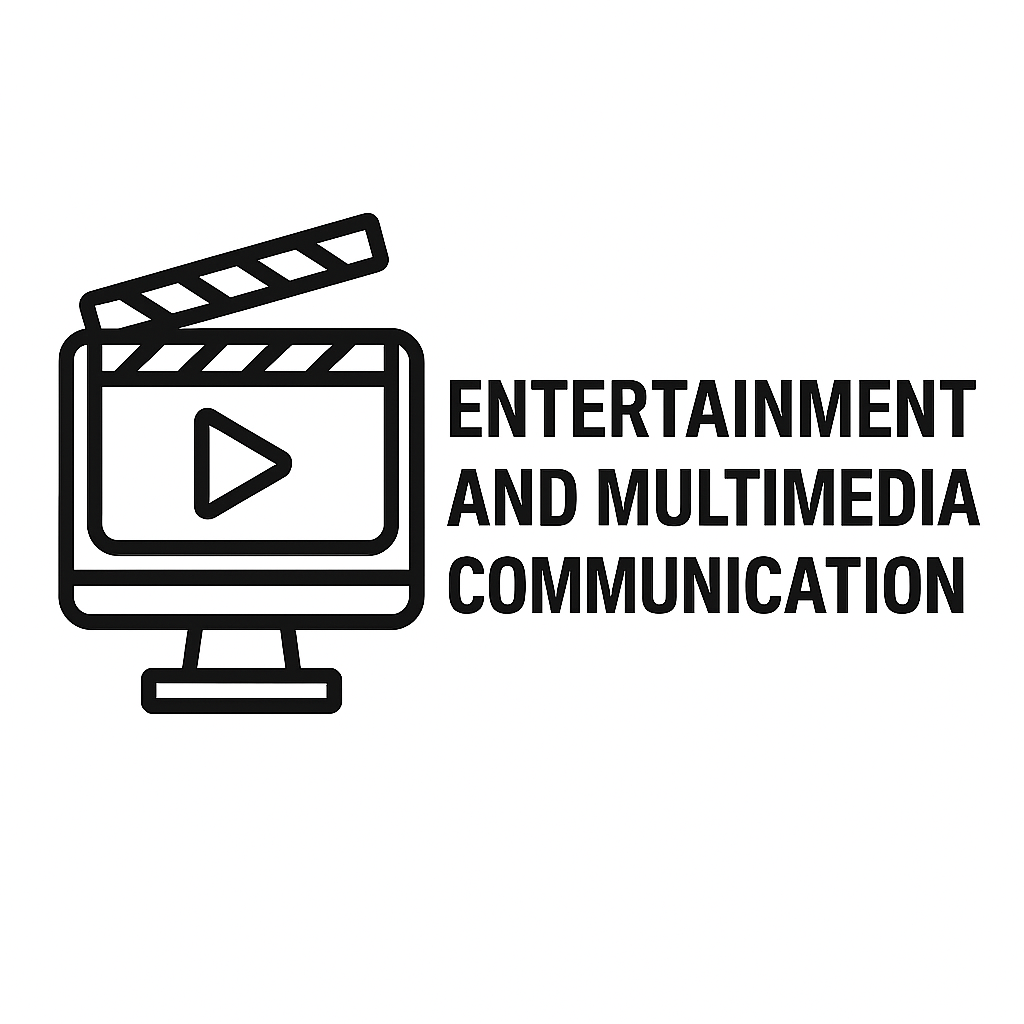
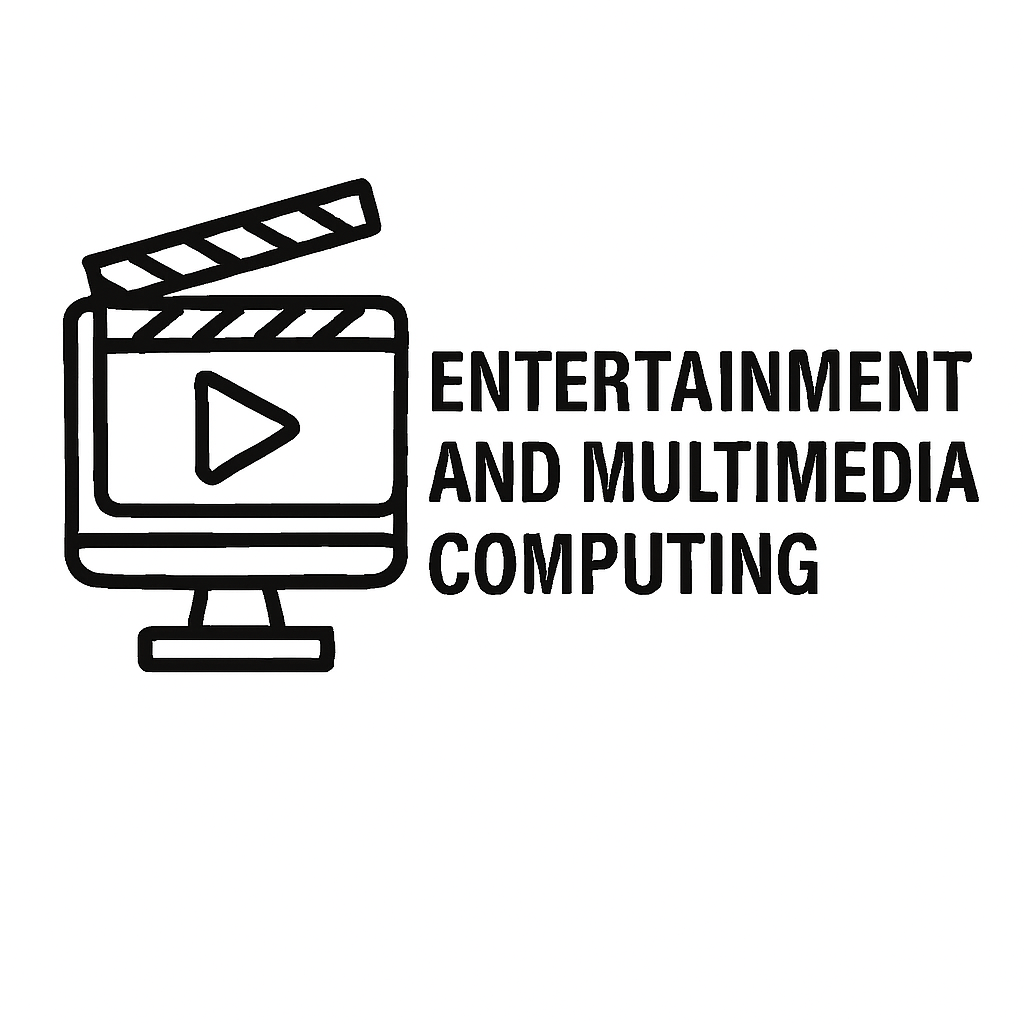
Update program name from "Entertainment & Multimedia Communication" to "Entertainment & Multimedia Computing" across multiple components

Changed region(s): [[0.0312, 0.1562, 0.9688, 0.7188]]

diff --git a/app/entertainment-multimedia/page.tsx b/app/entertainment-multimedia/page.tsx
@@ -8,7 +8,7 @@ export default function EntertainmentMultimediaPage() {
       {/* Hero Section */}
       <section className="bg-gradient-to-r from-purple-600 to-pink-700 text-white min-h-[300px] flex items-center">
         <div className="max-w-7xl mx-auto px-4 sm:px-6 lg:px-8 text-center">
-          <h1 className="text-4xl md:text-6xl font-bold mb-6">Entertainment & Multimedia Communication</h1>
+          <h1 className="text-4xl md:text-6xl font-bold mb-6">Entertainment & Multimedia Computing</h1>
           <p className="text-xl md:text-2xl mb-8 max-w-3xl mx-auto">Creating immersive digital experiences</p>
         </div>
       </section>
@@ -16,7 +16,7 @@ export default function EntertainmentMultimediaPage() {
       {/* Promotional Video Section */}
       <section className="py-16">
         <div className="max-w-4xl mx-auto px-4 sm:px-6 lg:px-8 text-center">
-          <h2 className="text-3xl font-bold mb-8">Discover Entertainment & Multimedia Communication</h2>
+          <h2 className="text-3xl font-bold mb-8">Discover Entertainment & Multimedia Computing</h2>
           <div className="relative aspect-video bg-gray-200 rounded-lg flex items-center justify-center mb-8 overflow-hidden">
             {/* Blurred/dimmed background for portrait video */}
             <div className="absolute inset-0 bg-black/60 flex items-center justify-center">
@@ -85,16 +85,16 @@ export default function EntertainmentMultimediaPage() {
         </div>
       </section>
 
-      {/* What is Entertainment & Multimedia Communication */}
+      {/* What is Entertainment & Multimedia Computing */}
       <ProgramSection
-        title="Entertainment & Multimedia Communication"
-        description="Entertainment & Multimedia Communication combines creativity with technology to produce engaging digital content and interactive experiences. Our program covers digital animation, game development, web design, video production, and interactive media. Students learn to use professional software tools while developing strong design principles and storytelling skills. The curriculum includes courses in 3D modeling, motion graphics, user experience design, and digital marketing. Graduates are prepared for careers in the entertainment industry, advertising agencies, game studios, and digital media companies as animators, game developers, multimedia designers, and content creators."
+        title="Entertainment & Multimedia Computing"
+        description="Entertainment & Multimedia Computing combines creativity with technology to produce engaging digital content and interactive experiences. Our program covers digital animation, game development, web design, video production, and interactive media. Students learn to use professional software tools while developing strong design principles and storytelling skills. The curriculum includes courses in 3D modeling, motion graphics, user experience design, and digital marketing. Graduates are prepared for careers in the entertainment industry, advertising agencies, game studios, and digital media companies as animators, game developers, multimedia designers, and content creators."
         image="/images/pubmat/BSEMC.png?height=400&width=600"
       />
 
       {/* Program Resources */}
       <ProgramResources
-        programName="Entertainment & Multimedia Communication"
+        programName="Entertainment & Multimedia Computing"
         catalogYear="2024-2025"
         accreditations={["ABET", "PACUCOA", "CHED Center of Excellence", "Philippine Technological Council",]}
       />

diff --git a/app/page.tsx b/app/page.tsx
@@ -73,7 +73,7 @@ export default function HomePage() {
       {/* What is Computer Science Section */}
       <ProgramSection
         title="College of Computer Studies"
-        description="The College of Computer Studies is a premier institution dedicated to advancing technology education and innovation. We offer comprehensive programs in Computer Science, Information Technology, Data Science & Analytics, and Entertainment & Multimedia Communication. Our college combines rigorous academic curricula with hands-on learning experiences, preparing students for successful careers in the rapidly evolving technology industry. With state-of-the-art facilities, expert faculty, and strong industry partnerships, we foster an environment where students can explore cutting-edge technologies, develop critical thinking skills, and become leaders in their chosen fields."
+        description="The College of Computer Studies is a premier institution dedicated to advancing technology education and innovation. We offer comprehensive programs in Computer Science, Information Technology, Data Science & Analytics, and Entertainment & Multimedia Computing. Our college combines rigorous academic curricula with hands-on learning experiences, preparing students for successful careers in the rapidly evolving technology industry. With state-of-the-art facilities, expert faculty, and strong industry partnerships, we foster an environment where students can explore cutting-edge technologies, develop critical thinking skills, and become leaders in their chosen fields."
         image="/images/college-overview.png"
       />
 

diff --git a/components/expandable-section.tsx b/components/expandable-section.tsx
@@ -59,8 +59,8 @@ export default function ProgramResources(props: ProgramResourcesProps) {
     ],
   } = props;
 
-  // Special handling for Entertainment & Multimedia Communication
-  const isEMC = programName === "Entertainment & Multimedia Communication";
+  // Special handling for Entertainment & Multimedia Computing
+  const isEMC = programName === "Entertainment & Multimedia Computing";
   const emcTracks = [
     { label: "Game Development (GD)", file: "Curriculum GD.pdf", key: "gd" as const },
     { label: "Digital Animation Technology (DAT)", file: "Curriculum DAT.pdf", key: "dat" as const },

diff --git a/app/faculty-staff/page.tsx b/app/faculty-staff/page.tsx
@@ -117,7 +117,7 @@ export default function FacultyStaffPage() {
       {
         name: "Melvin A. Ballera, PhD",
         title: "Associate Professor",
-        education: "Ph.D. in Statistics",
+        education: "Ph.D. in Computer Science",
         specialization: "Algorithm, Machine Learning",
         image: "/images/Faculty/Dr. Melvin A. Ballera.jpg",
       },
